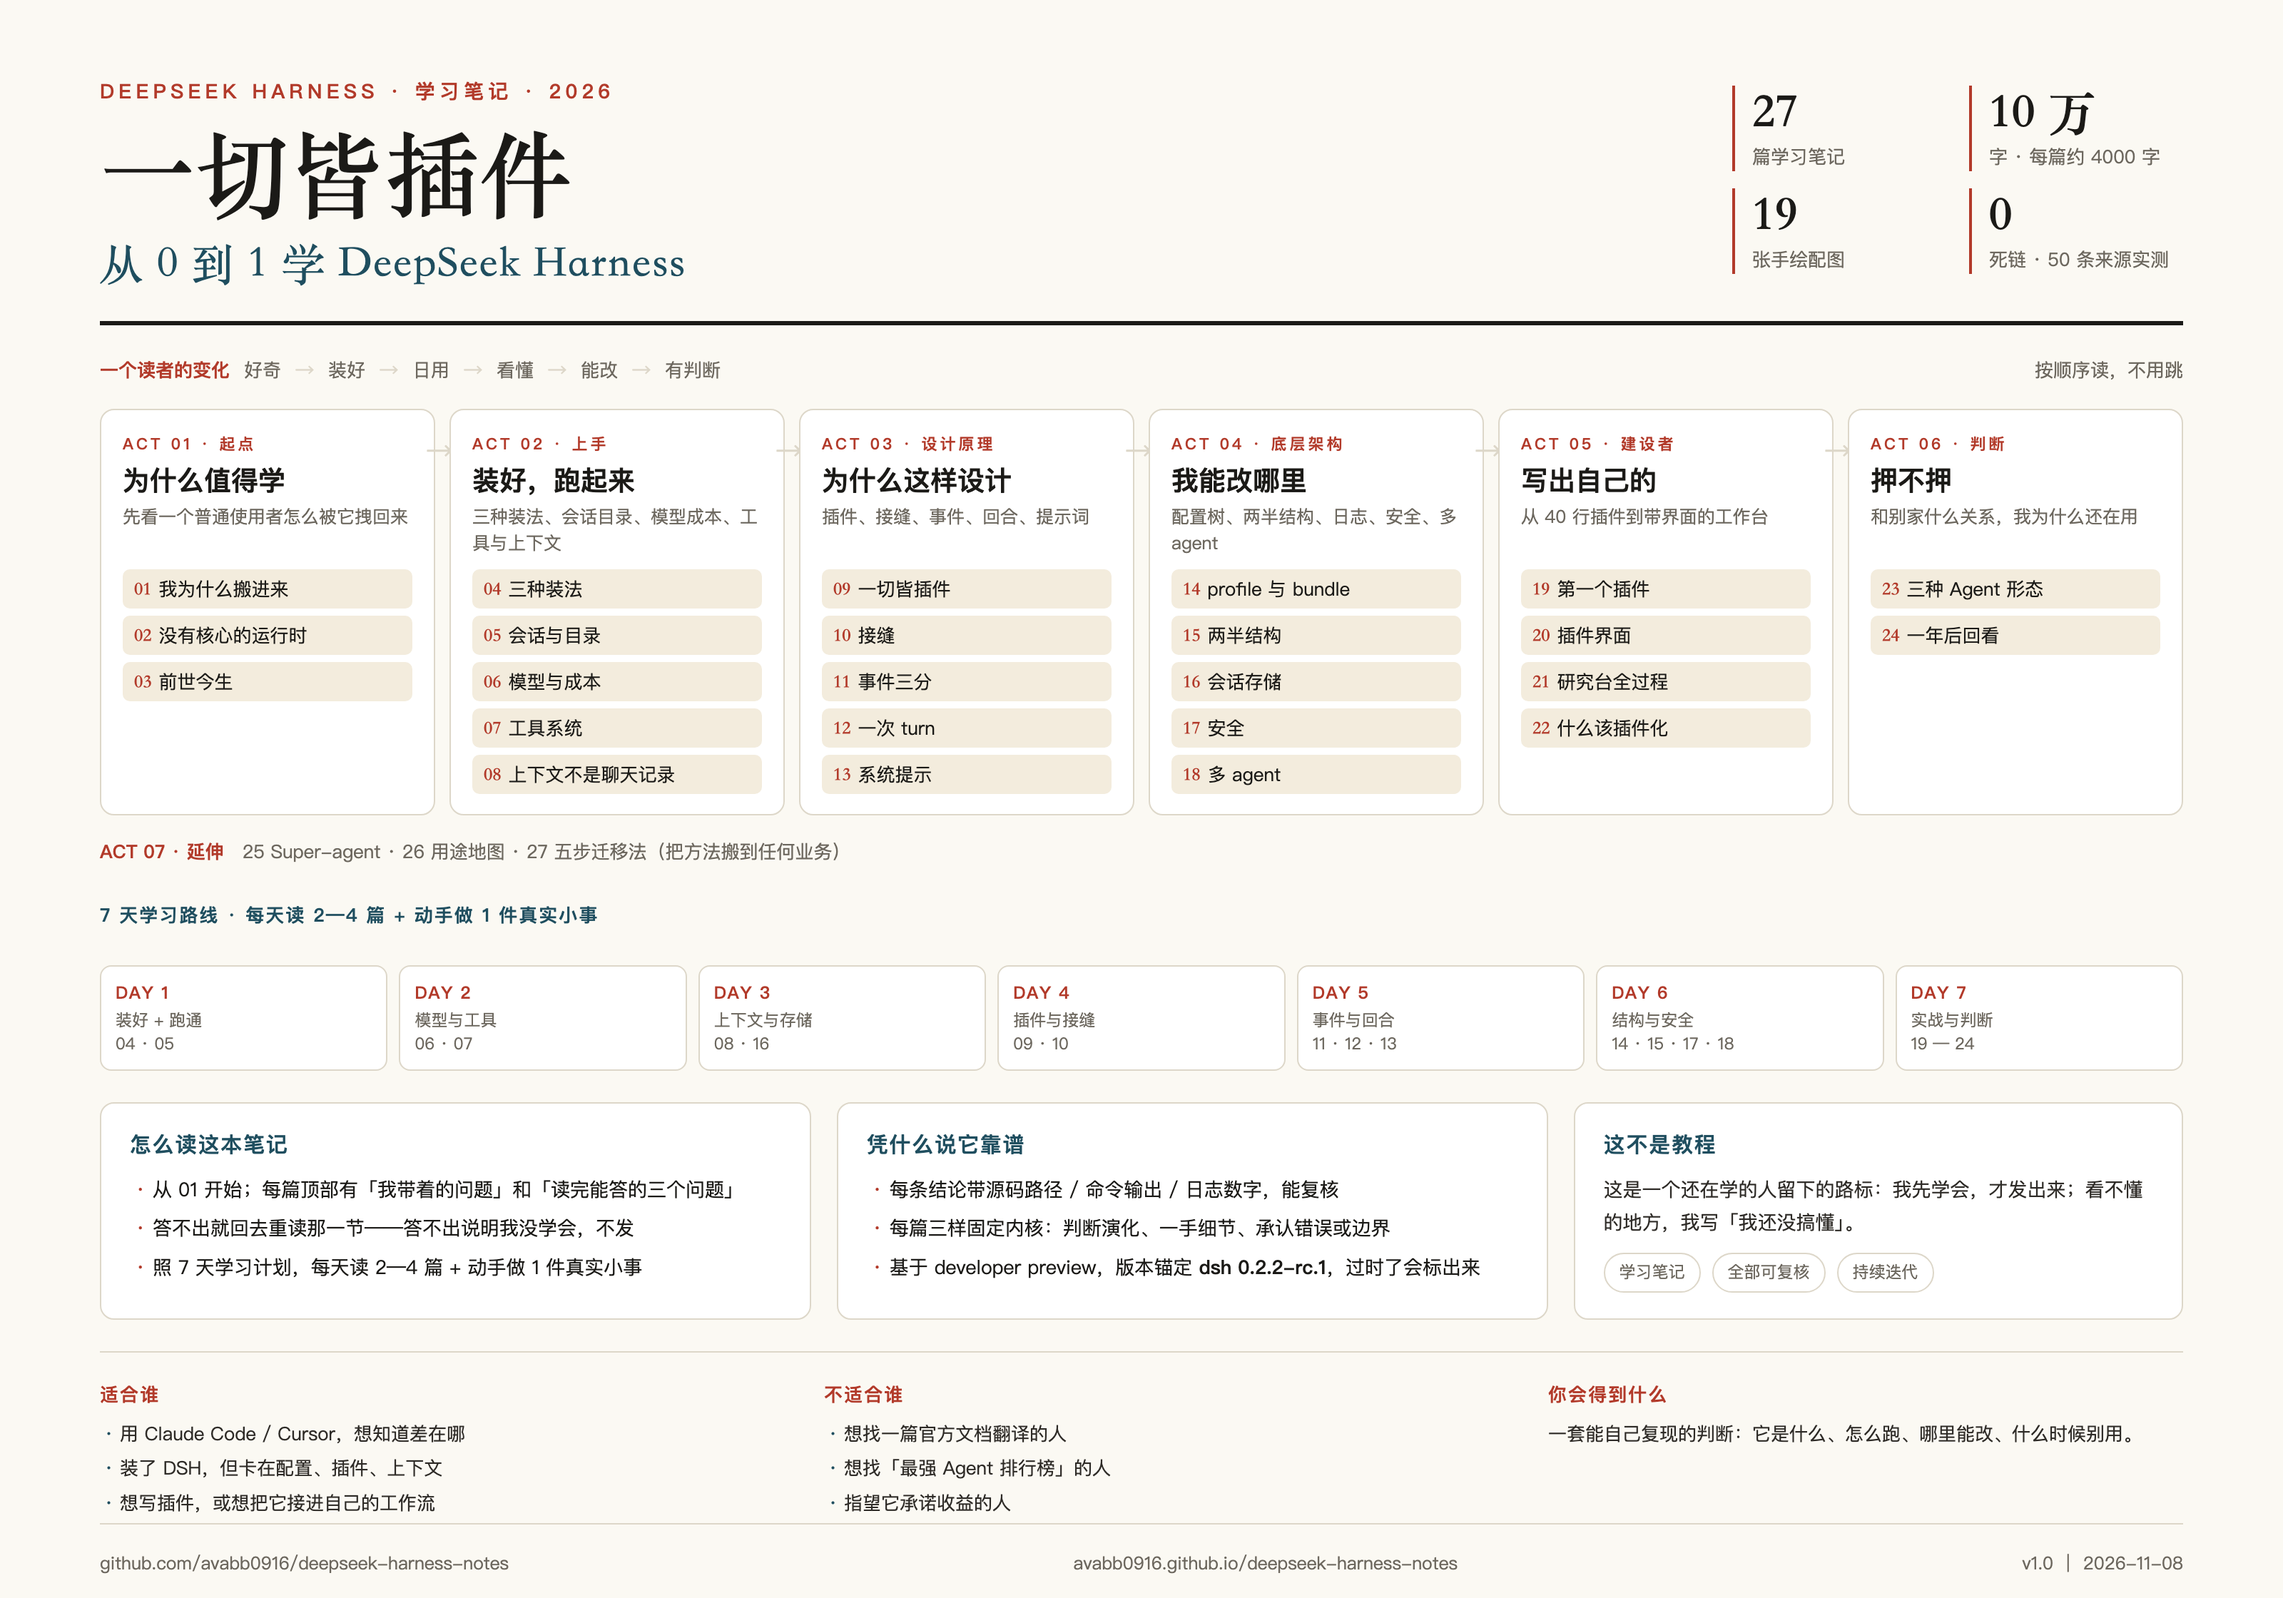
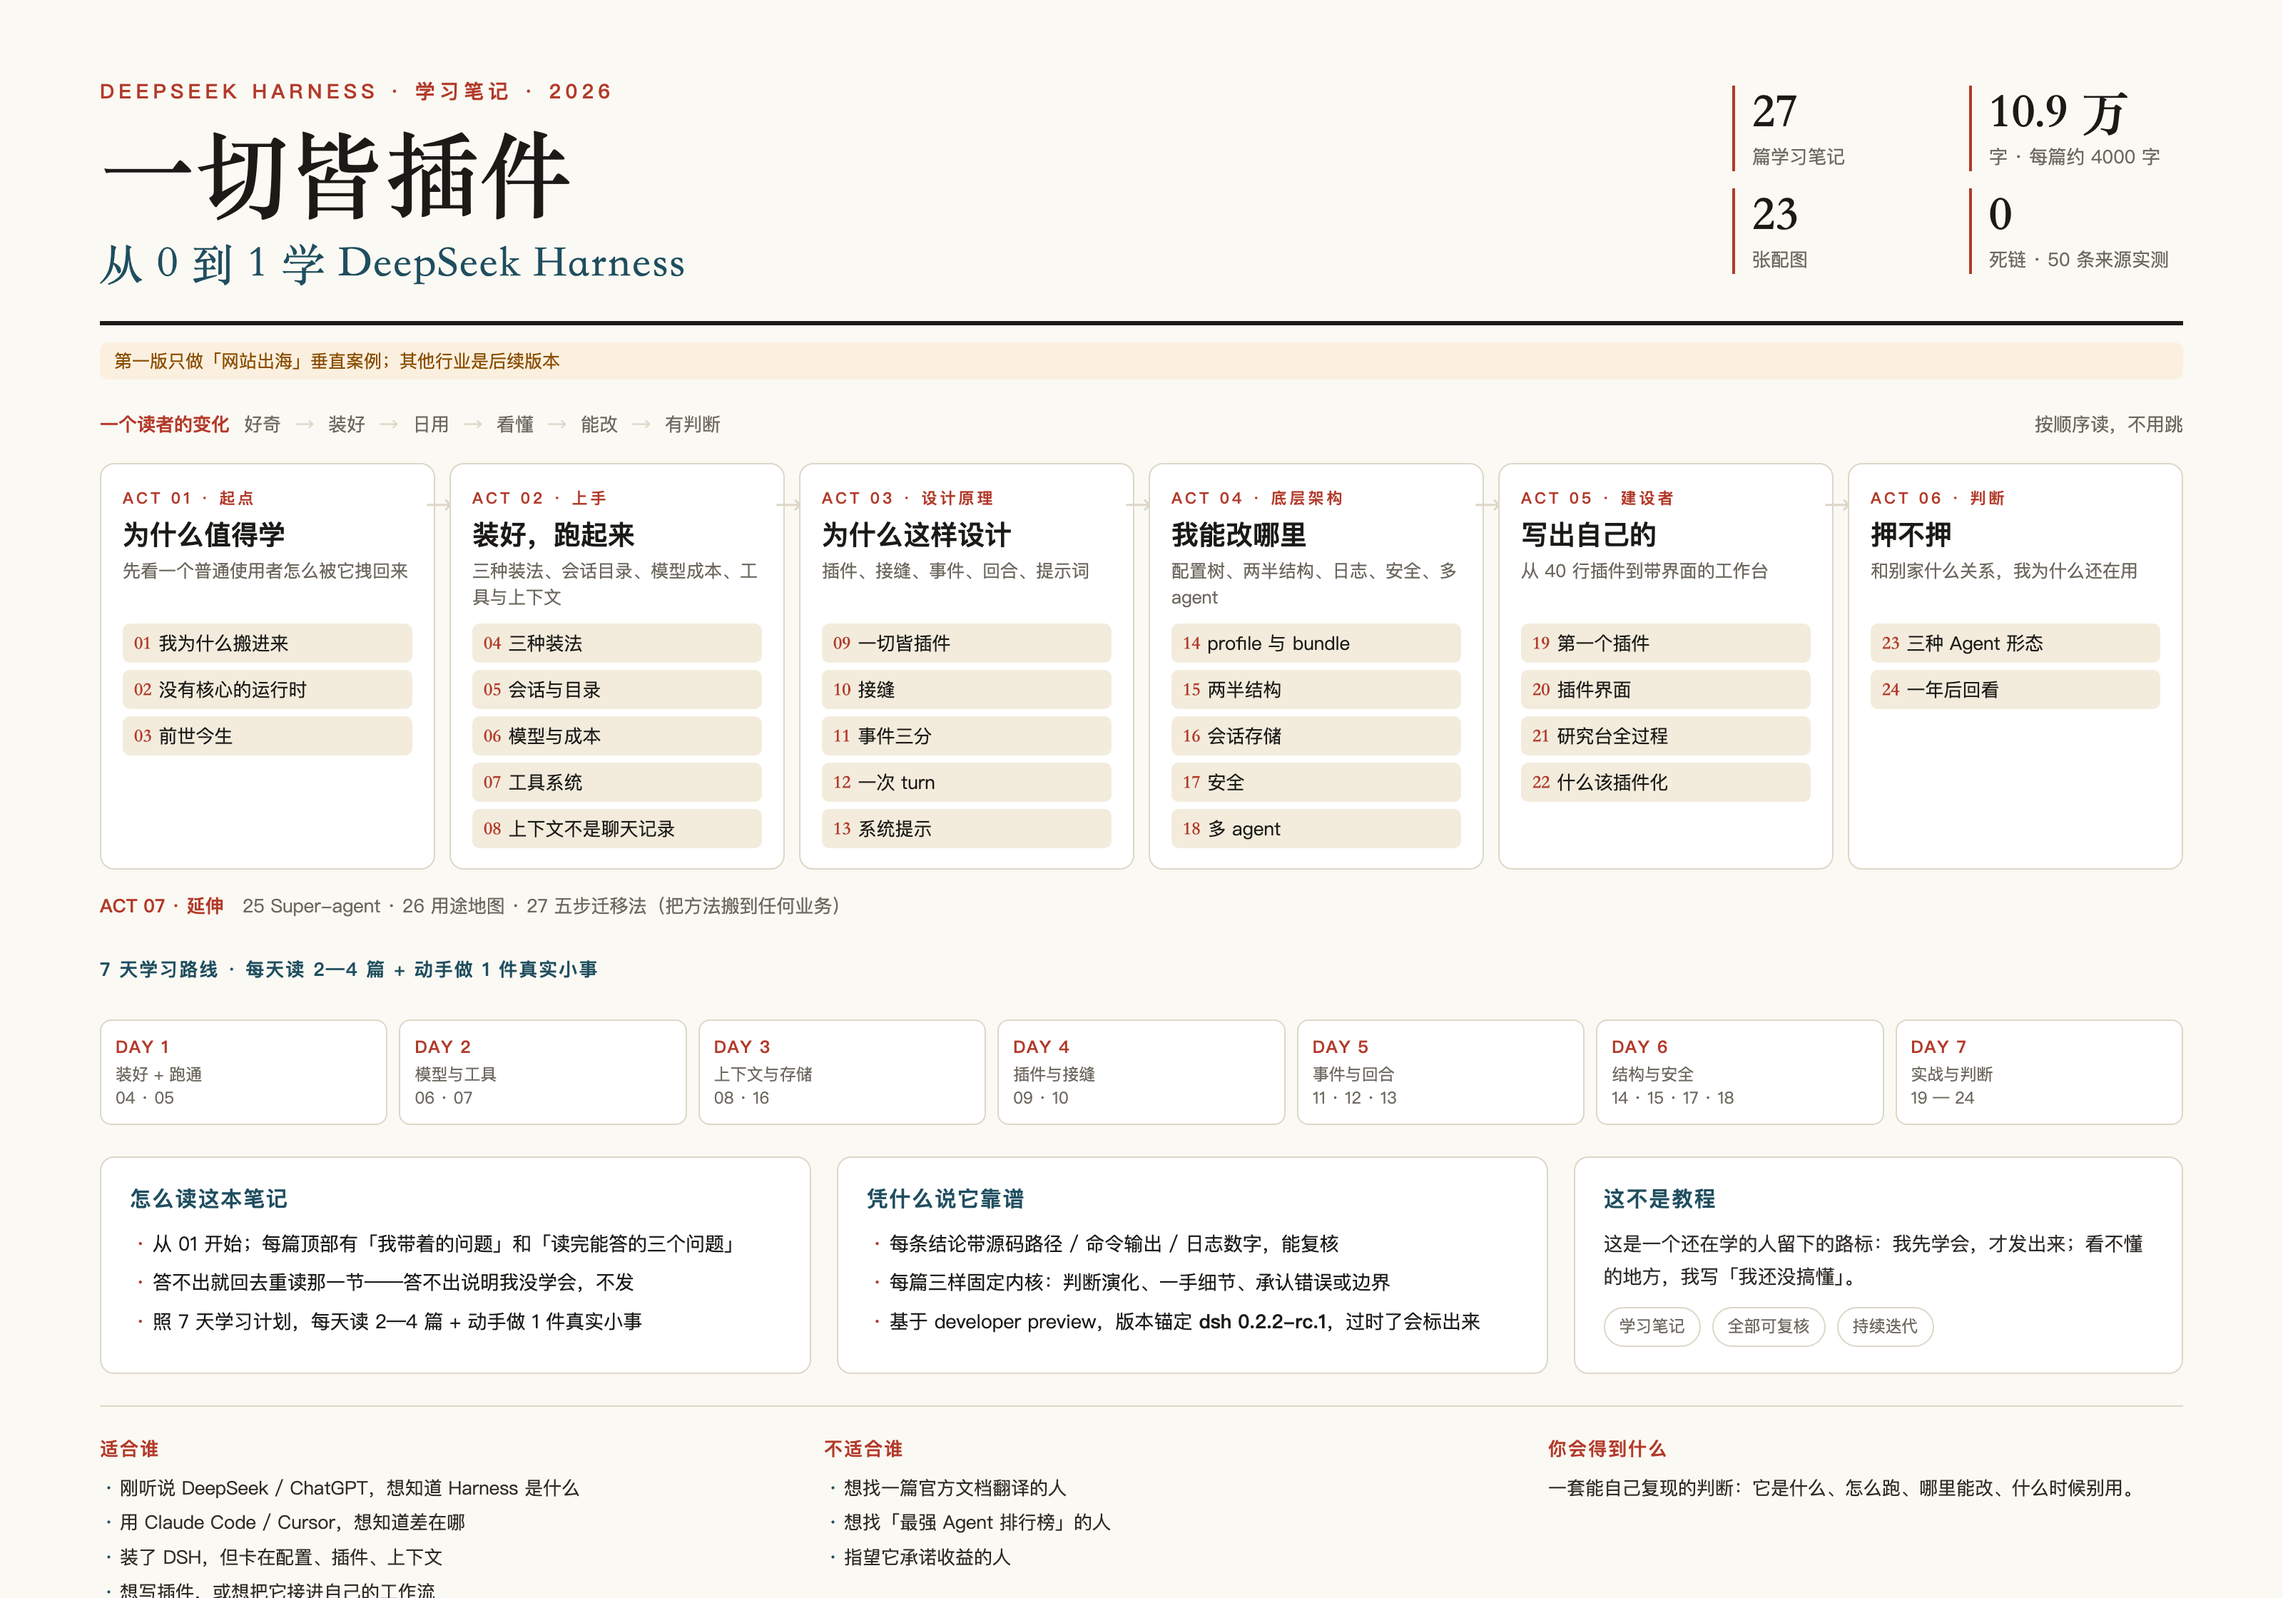
README 定方向：三问、受众、第一版只做网站出海案例

diff --git a/assets/overview.html b/assets/overview.html
@@ -52,11 +52,12 @@
   </div>
   <div class="stats">
     <div class="stat"><b>27</b><span>篇学习笔记</span></div>
-    <div class="stat"><b>10 万</b><span>字 · 每篇约 4000 字</span></div>
-    <div class="stat"><b>19</b><span>张手绘配图</span></div>
+    <div class="stat"><b>10.9 万</b><span>字 · 每篇约 4000 字</span></div>
+    <div class="stat"><b>23</b><span>张配图</span></div>
     <div class="stat"><b>0</b><span>死链 · 50 条来源实测</span></div>
   </div>
 </div>
+<div style="margin-top:12px;display:inline-block;font-size:12.5px;color:#8a4d00;background:#fbf0df;padding:4px 10px;border-radius:6px">第一版只做「网站出海」垂直案例；其他行业是后续版本</div>
 <div class="journey"><b>一个读者的变化</b><span>好奇</span><span class="sep">→</span><span>装好</span><span class="sep">→</span><span>日用</span><span class="sep">→</span><span>看懂</span><span class="sep">→</span><span>能改</span><span class="sep">→</span><span>有判断</span><span style="margin-left:auto">按顺序读，不用跳</span></div>
 <div class="flow">
   <div class="act"><div class="no">ACT 01 · 起点</div><h3>为什么值得学</h3><p>先看一个普通使用者怎么被它拽回来</p><div class="chips">
@@ -98,7 +99,7 @@
   <p style="margin-top:10px"><span class="tag">学习笔记</span><span class="tag">全部可复核</span><span class="tag">持续迭代</span></p></div>
 </div>
 <div class="who">
-  <div><h5>适合谁</h5><ul><li>用 Claude Code / Cursor，想知道差在哪</li><li>装了 DSH，但卡在配置、插件、上下文</li><li>想写插件，或想把它接进自己的工作流</li></ul></div>
+  <div><h5>适合谁</h5><ul><li>刚听说 DeepSeek / ChatGPT，想知道 Harness 是什么</li><li>用 Claude Code / Cursor，想知道差在哪</li><li>装了 DSH，但卡在配置、插件、上下文</li><li>想写插件，或想把它接进自己的工作流</li></ul></div>
   <div><h5>不适合谁</h5><ul><li>想找一篇官方文档翻译的人</li><li>想找「最强 Agent 排行榜」的人</li><li>指望它承诺收益的人</li></ul></div>
   <div><h5>你会得到什么</h5><p>一套能自己复现的判断：它是什么、怎么跑、哪里能改、什么时候别用。</p></div>
 </div>

diff --git a/docs/index.html b/docs/index.html
@@ -21,8 +21,9 @@ footer{margin-top:56px;padding-top:18px;border-top:3px solid var(--ink);font-fam
 </style></head><body><div class="page">
 <div class="kicker">DSH · 学习笔记</div>
 <h1>一切皆插件<br>我的 DeepSeek Harness 学习笔记</h1>
-<div class="meta">24 篇 ｜ 版本 v1.1 ｜ 2026-11-08 ｜ 依据：本机 dsh 0.2.2-rc.1 实测 + 官方文档 + X/社区资料</div>
+<div class="meta">27 篇 ｜ 版本 v1.1 ｜ 2026-11-08 ｜ 依据：本机 dsh 0.2.2-rc.1 实测 + 官方文档 + X/社区资料</div>
 <img src="images/00-全景图.png" alt="教程全景图" style="width:100%;height:auto;margin:26px 0 6px;border:1px solid var(--line);border-radius:10px">
+<p style="margin:18px 0 0;font-size:15px;color:#8a4d00;background:#fbf0df;display:inline-block;padding:6px 12px;border-radius:6px">第一版只做「网站出海」一个垂直案例；市场、销售、研发、家长辅导等方向是后续版本</p>
 <blockquote>这不是教程，是我从 0 到 1 学 DeepSeek Harness 的笔记。我先学会，才发出来；看不懂的地方，我写"我还没搞懂"。</blockquote>
 <h2>怎么用这本笔记</h2>
 <p>1. 从第 01 篇开始读，每篇顶部有「我带着的问题」和「读完能答的三个问题」；答不出，就回去重读那一节。<br>

diff --git a/build.py b/build.py
@@ -107,8 +107,9 @@ footer{{margin-top:56px;padding-top:18px;border-top:3px solid var(--ink);font-fa
 </style></head><body><div class="page">
 <div class="kicker">DSH · 学习笔记</div>
 <h1>一切皆插件<br>我的 DeepSeek Harness 学习笔记</h1>
-<div class="meta">24 篇 ｜ 版本 v1.1 ｜ 2026-11-08 ｜ 依据：本机 dsh 0.2.2-rc.1 实测 + 官方文档 + X/社区资料</div>
+<div class="meta">27 篇 ｜ 版本 v1.1 ｜ 2026-11-08 ｜ 依据：本机 dsh 0.2.2-rc.1 实测 + 官方文档 + X/社区资料</div>
 <img src="images/00-全景图.png" alt="教程全景图" style="width:100%;height:auto;margin:26px 0 6px;border:1px solid var(--line);border-radius:10px">
+<p style="margin:18px 0 0;font-size:15px;color:#8a4d00;background:#fbf0df;display:inline-block;padding:6px 12px;border-radius:6px">第一版只做「网站出海」一个垂直案例；市场、销售、研发、家长辅导等方向是后续版本</p>
 <blockquote>这不是教程，是我从 0 到 1 学 DeepSeek Harness 的笔记。我先学会，才发出来；看不懂的地方，我写"我还没搞懂"。</blockquote>
 <h2>怎么用这本笔记</h2>
 <p>1. 从第 01 篇开始读，每篇顶部有「我带着的问题」和「读完能答的三个问题」；答不出，就回去重读那一节。<br>

diff --git a/README.md b/README.md
@@ -1,28 +1,44 @@
-# 一切皆插件 · 我的 DeepSeek Harness 学习笔记
+# 一切皆插件 · DeepSeek Harness 学习笔记
 
-> 这不是教程，是我从 0 到 1 学 DeepSeek Harness（`dsh`）的笔记。**我先学会，才发出来。**
-> 27 篇 ｜ 基于 `dsh 0.2.2-rc.1`（2026-11-04）｜ 更新于 2026-11-08
+> **这本书回答三个问题：DeepSeek Harness 是什么？它能帮你做什么？怎么把它用到你自己的业务里？**
+> 27 篇 ｜ 第一版以「网站出海」为完整案例 ｜ 基于 `dsh 0.2.2-rc.1`（2026-11-04）｜ 更新于 2026-11-08
 
-<img src="docs/images/00-全景图.png" alt="教程全景图：六幕 24 篇、7 天学习路线、读法与可信度说明">
+<img src="docs/images/00-全景图.png" alt="全景图：六幕 24 篇原理、方法篇、受众与第一版范围">
 
-## 这是什么
+## 你可能是谁
 
-- 一本**学以致用**的书：用 DeepSeek Harness 当工具，用 OPT（一人公司操作系统）当方法，把任何一条业务线拆成 agent 团队能接手的原子。
-- 两部分：**原理**（01—24，它是什么、怎么跑、为什么这样设计、我能改哪里）+ **方法与案例**（25—27，我能用它做什么、五步迁移法，以及网站出海案例）。
-- 每篇都有：我带着的问题、读之前我以为、读完的答案、**读完能答的三个问题**（答不出就不发）、术语小抄、我还没搞懂。
-- 不是官方文档的翻译，也不是"教你用"的教程；是一个还在学的人留下的路标。
+- **刚听说 DeepSeek / ChatGPT 的人**：想知道「Harness 又是什么」，跟聊天工具有什么不一样。
+- **公司里的岗位**：市场、运营、销售、研发——手里有一堆重复流程，想知道能不能交给 AI 团队。
+- **个体**：带孩子的家长、一人公司、自由职业者——想把一件事从头到尾跑起来，但没有团队。
 
-## 两种读法
+不管你是谁，你真正想问的其实是同一句：**它能帮我做什么？我能把它套到我的业务里吗？**
 
-- **学原理**：01 → 24，知道 DSH 是什么、怎么跑、边界在哪。
-- **搬方法**：26 → 27，然后拿你自己那条业务线，按五步拆一遍。
+## 这本书回答什么
 
-## 适合谁
+1. **它是什么**：一个「一切皆插件」的 Agent 运行时，不是聊天工具，也不是 IDE（01—03）。
+2. **它能帮你做什么**：内容生产、知识库、Coding、Vibe coding、多 agent、产品调研、常驻 Agent（26）。
+3. **怎么用到你的业务里**：选一条线 → 拆七段 → 拆原子 → 配角色 → 设闸门（27）。
 
-- 公司里的岗位：市场营销、业务运营、销售、研发——把重复流程拆成原子，交给 agent 团队。
-- 个体：带孩子的家长（辅导学习）、一人公司（网站出海、内容、产品）——一个人干出一个团队的产出。
+## 第一版的范围（重要）
 
-案例从「网站出海」开始跑通，再把同一套零件换到别的行业。
+**第一版只做「网站出海」这一个垂直案例，不把所有行业都写一遍。**
+
+- 为什么先做它：流程最全（选词/竞品/内容/建站/分发/数据）、反馈最快（收录、排名、流量）、一个人就能启动。
+- 案例会写成一个完整闭环：46 个原子、8 个角色、第一周先跑 10 个，最后落到一个能打开的站。
+- **其他方向是后续版本的事**：市场、销售、研发、家长辅导、一人公司……方法不变，换的是业务名词。等这一版跑通、电子书有了影响力，再逐个扩。
+
+所以你现在读到的不是「全行业大全」，是**一个样板间 + 一套可搬走的水电走法**。
+
+## 两部分怎么读
+
+- **学原理（01—24）**：DSH 是什么、怎么跑、为什么这样设计、我能改哪里。
+- **搬方法（25—27）**：官方 Super-agent 设计、七种用法、五步迁移法；然后跟着网站出海案例（28 起）走一遍。
+
+## 适合谁 / 不适合谁
+
+适合：想搞懂 DSH 的人、想把重复流程交给 agent 的人、想用一个人跑一条业务线的人。
+
+不适合：想找官方文档翻译的人、想找「最强 Agent 排行榜」的人、指望它承诺收益的人。
 
 ## 在线阅读
 
